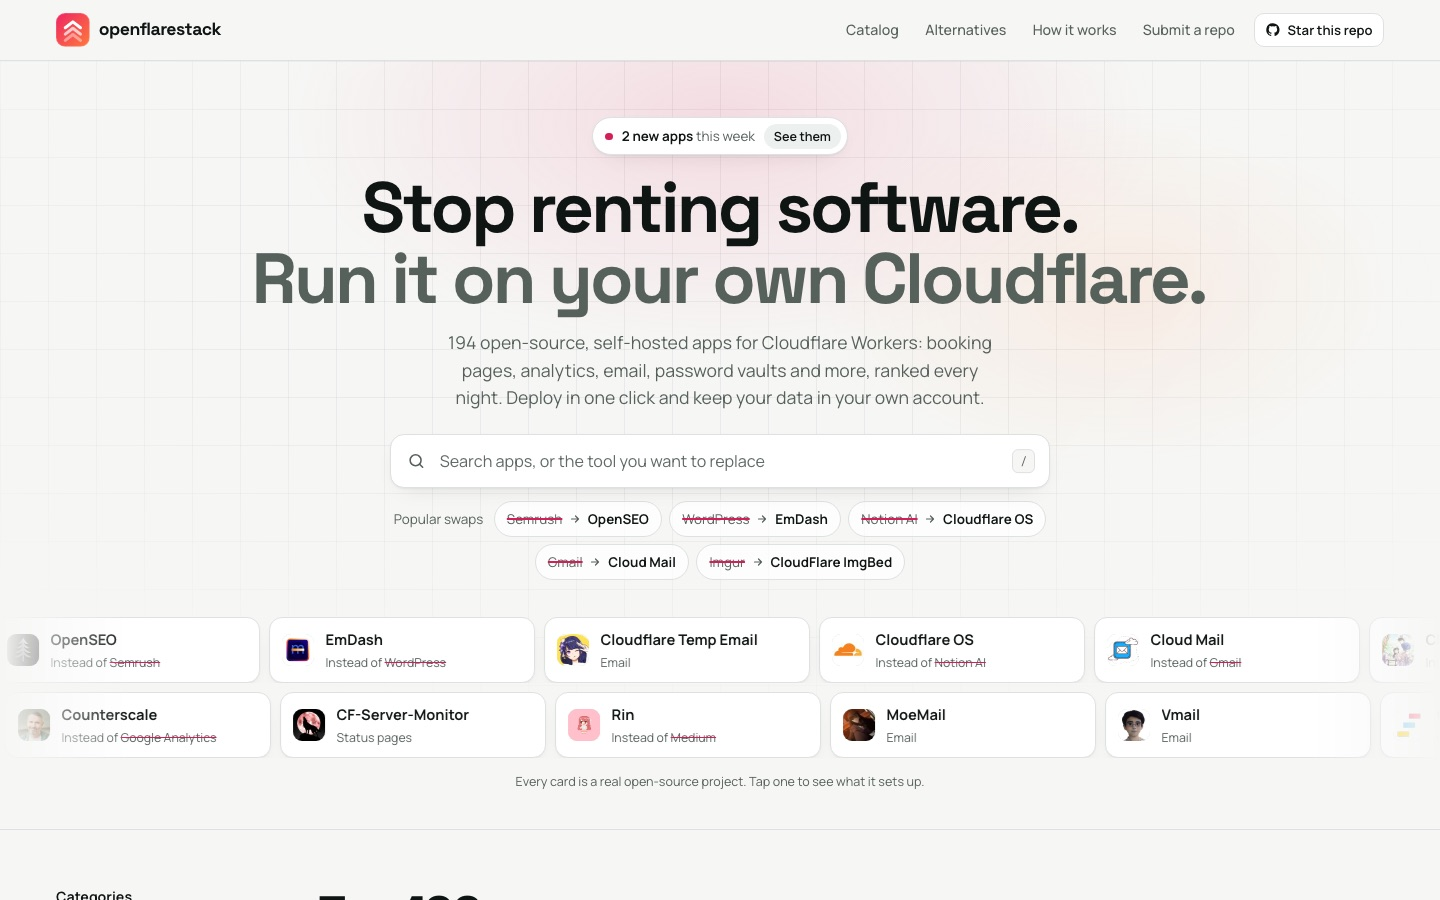
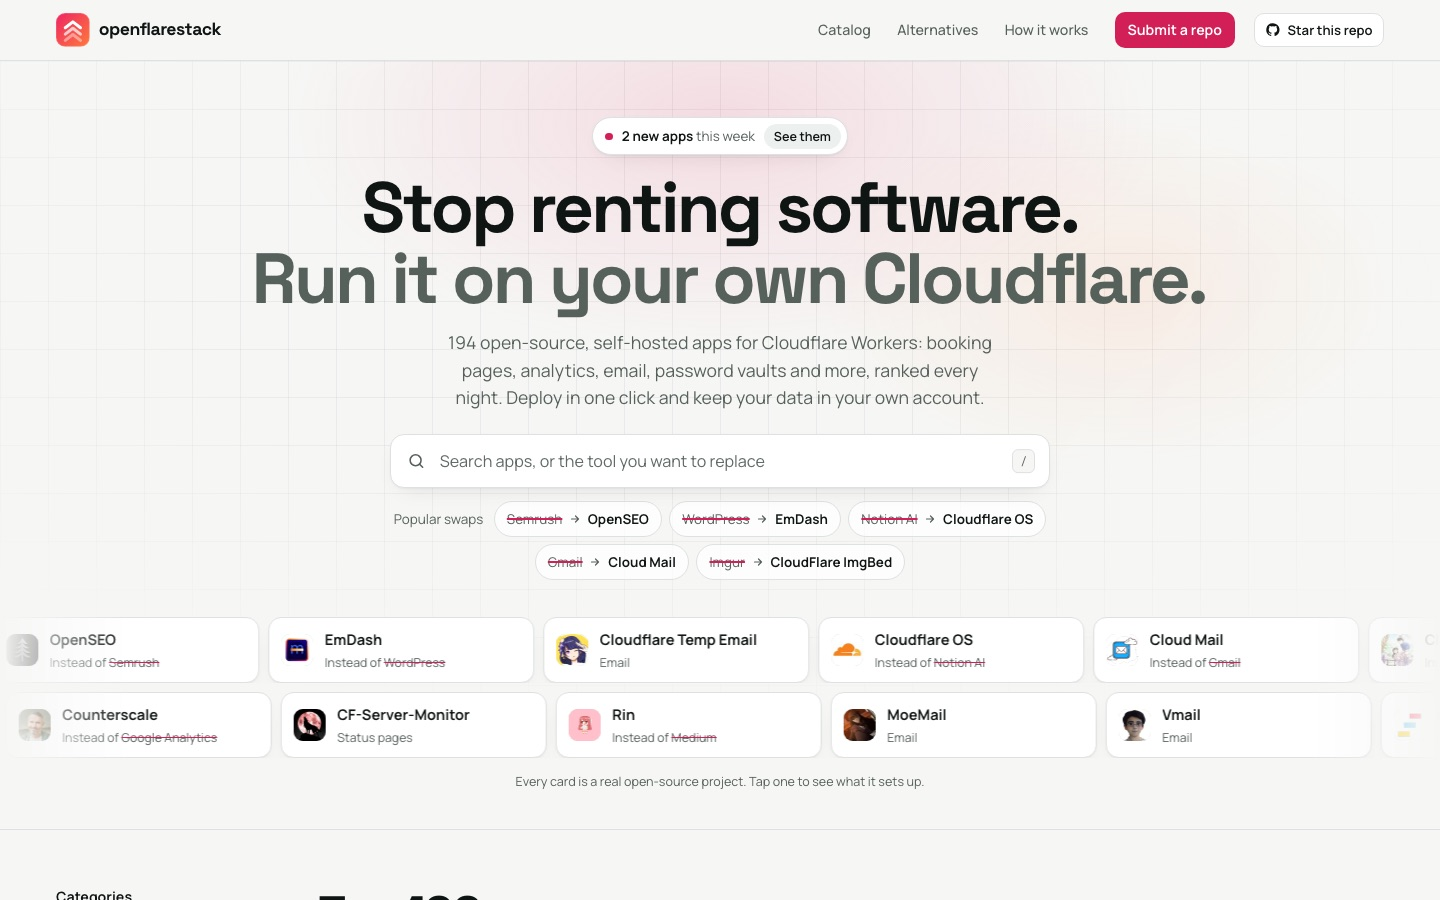
Live search suggestions, footer disclaimer, Submit buttons
- Hero search shows the top matches in a dropdown as you type, with
  keyboard support and a link to all results in the catalog
- Footer: drop the seed-list line, add an install-at-your-own-risk notice
- Submit a repo is a button in the header and footer

diff --git a/site/app.js b/site/app.js
@@ -1,7 +1,7 @@
 // Runs on top of the pre-rendered pages: search, filters, sort, layout, the detail sheet,
 // copy buttons and the "Submit your repo" checker. No framework, no build step.
 
-import { esc, k, row, tiles, appDetail, ICONS } from './lib/render.js';
+import { esc, k, row, tiles, appDetail, avatar, ICONS } from './lib/render.js';
 import { BINDINGS } from './lib/bindings.js';
 import { STEPS, runCheck, parseRepo, apiSource } from './lib/check.js';
 import { TOP_N, submitIssueUrl, deployUrl } from './lib/config.js';
@@ -110,8 +110,52 @@ function initHome() {
   statusEl.addEventListener('click', (e) => { if (e.target.id === 'clearAll') clearAll(); });
   listEl.addEventListener('click', (e) => { if (e.target.id === 'clearEmpty') clearAll(); });
   $('showAll').addEventListener('click', () => { state.all = true; render(); });
-  q.addEventListener('input', () => { state.q = q.value.trim(); render(); });
-  q.addEventListener('keydown', (e) => { if (e.key === 'Enter') { e.preventDefault(); toCatalog(); } });
+  // Live suggestions under the hero search, so typing shows results right away. The full list
+  // below filters at the same time; Enter or "See all" jumps to it.
+  const suggest = $('suggest');
+  let active = -1;
+  const hits = (apps) => apps.filter((a) => {
+    const hay = `${a.name} ${a.replaces || ''} ${a.description} ${a.category} ${a.repo}`.toLowerCase();
+    return state.q.toLowerCase().split(/\s+/).every((w) => hay.includes(w));
+  });
+  function closeSuggest() { suggest.hidden = true; q.setAttribute('aria-expanded', 'false'); active = -1; }
+  async function showSuggest() {
+    if (!state.q) { closeSuggest(); return; }
+    const found = hits((await loadCatalog()).apps);
+    suggest.innerHTML = (found.length
+      ? found.slice(0, 6).map((a, i) => `<a class="sg" id="sg${i}" role="option" href="/apps/${esc(a.slug)}/" data-repo="${esc(a.repo)}">${avatar(a, 'av-sm')}<span><b>${esc(a.name)}</b><small>${a.replaces ? `Instead of ${esc(a.replaces)}` : esc(a.category)}</small></span></a>`).join('')
+      : '<p class="sg-empty">No apps match that yet. Try the name of a tool you pay for.</p>')
+      + (found.length ? `<button type="button" class="sg-all" id="sgAll">See all ${found.length} result${found.length === 1 ? '' : 's'} in the catalog ${ICONS.arrow}</button>` : '');
+    suggest.hidden = false;
+    q.setAttribute('aria-expanded', 'true');
+    active = -1;
+  }
+  function move(d) {
+    const items = [...suggest.querySelectorAll('.sg')];
+    if (!items.length) return;
+    active = (active + d + items.length) % items.length;
+    items.forEach((el, i) => el.classList.toggle('on', i === active));
+    q.setAttribute('aria-activedescendant', items[active].id);
+  }
+  sheetLinks(suggest, '.sg');
+  suggest.addEventListener('click', (e) => {
+    if (e.target.closest('.sg')) closeSuggest();
+    if (e.target.closest('#sgAll')) { closeSuggest(); toCatalog(); }
+  });
+  q.addEventListener('input', () => { state.q = q.value.trim(); render(); showSuggest(); });
+  q.addEventListener('focus', () => { if (state.q) showSuggest(); });
+  q.addEventListener('blur', () => setTimeout(closeSuggest, 150));
+  q.addEventListener('keydown', (e) => {
+    if (e.key === 'ArrowDown') { e.preventDefault(); move(1); }
+    else if (e.key === 'ArrowUp') { e.preventDefault(); move(-1); }
+    else if (e.key === 'Escape') closeSuggest();
+    else if (e.key === 'Enter') {
+      e.preventDefault();
+      const pick = active >= 0 && suggest.querySelectorAll('.sg')[active];
+      closeSuggest();
+      if (pick) openSheet(pick.dataset.repo); else toCatalog();
+    }
+  });
   document.addEventListener('keydown', (e) => {
     if (e.key === '/' && !/input|select|textarea/i.test(document.activeElement.tagName) && !sheet.open) { e.preventDefault(); q.focus(); }
   });
@@ -119,7 +163,7 @@ function initHome() {
     const b = e.target.closest('.swap-chip');
     if (!b) return;
     q.value = state.q = b.dataset.q;
-    setCat('All'); render(); toCatalog();
+    setCat('All'); render(); closeSuggest(); toCatalog();
   });
   $('newPill')?.addEventListener('click', () => { state.onlyNew = true; fNew.setAttribute('aria-pressed', 'true'); render(); toCatalog(); });
   $('sort').addEventListener('change', (e) => { state.sort = e.target.value; render(); });

diff --git a/scripts/build-site.js b/scripts/build-site.js
@@ -89,7 +89,7 @@ ${SPRITE}
       <a href="/#catalog">Catalog</a>
       <a href="/alternatives/">Alternatives</a>
       <a href="/#how">How it works</a>
-      <a href="/#submit">Submit a repo</a>
+      <a class="nav-cta" href="/#submit">Submit a repo</a>
     </nav>
     <a class="gh-star" href="https://github.com/${CATALOG_REPO}" rel="noopener" aria-label="Star OpenFlareStack on GitHub">${ICONS.github}<span>Star this repo</span></a>
   </div>
@@ -101,7 +101,7 @@ ${body}
       <div class="foot-brand">
         <a class="brand" href="/" aria-label="OpenFlareStack home">${MARK}<span class="wm">openflarestack</span></a>
         <p>Open-source apps you run on your own Cloudflare account. Found on GitHub and ranked every night.</p>
-        <a class="foot-cta" href="/#submit">Submit your app ${ICONS.arrow}</a>
+        <a class="btn primary foot-cta" href="/#submit">Submit your app ${ICONS.arrow}</a>
       </div>
       <nav aria-label="Categories"><h2>Categories</h2><ul>${catalog.categories.map((c) => `<li><a href="${catPath(c.name)}">${esc(c.name)}</a></li>`).join('')}</ul></nav>
       <nav aria-label="Alternatives"><h2>Instead of</h2><ul>${ALTS.filter(hasPage).slice(0, 10).map((x) => `<li><a href="${altPath(x)}">${esc(x.name)}</a></li>`).join('')}<li><a href="/alternatives/">All alternatives</a></li></ul></nav>
@@ -115,8 +115,9 @@ ${body}
       </ul></nav>
     </div>
     <div class="foot-bottom">
-      <p>Built by <a href="${AUTHOR.url}" rel="noopener author">${esc(AUTHOR.name)}</a>. Seeded from <a href="https://github.com/theoephraim/awesome-cloudflare-selfhosted" rel="noopener">awesome-cloudflare-selfhosted</a>. Last update ${built}.</p>
-      <p>Not affiliated with Cloudflare, Inc. Cloudflare and Workers are trademarks of Cloudflare, Inc. Every app belongs to its authors and installs from their own repository.</p>
+      <p>Built by <a href="${AUTHOR.url}" rel="noopener author">${esc(AUTHOR.name)}</a>. Last update ${built}.</p>
+      <p>Apps are listed as-is. We don’t review, audit or guarantee any of them, and you install and run them at your own risk. Every app belongs to its authors and installs from their own repository.</p>
+      <p>Not affiliated with Cloudflare, Inc. Cloudflare and Workers are trademarks of Cloudflare, Inc.</p>
     </div>
   </div>
 </footer>
@@ -207,8 +208,9 @@ function home() {
       <div class="search" role="search">
         <svg viewBox="0 0 24 24" fill="none" stroke="currentColor" stroke-width="2" stroke-linecap="round" aria-hidden="true"><circle cx="11" cy="11" r="7"/><path d="m20 20-3.5-3.5"/></svg>
         <label for="q" class="vh">Search apps</label>
-        <input id="q" type="search" autocomplete="off" placeholder="Search apps, or the tool you want to replace">
+        <input id="q" type="search" autocomplete="off" placeholder="Search apps, or the tool you want to replace" role="combobox" aria-expanded="false" aria-controls="suggest" aria-autocomplete="list">
         <span class="kbd" aria-hidden="true">/</span>
+        <div class="suggest" id="suggest" role="listbox" aria-label="Matching apps" hidden></div>
       </div>
       ${swaps.length ? `<div class="swaps" id="swaps"><span>Popular swaps</span>${swaps.map((a) => `<button class="swap-chip" type="button" data-q="${esc(a.replaces)}"><s>${esc(a.replaces)}</s>${ICONS.arrow}<b>${esc(a.name)}</b></button>`).join('')}</div>` : ''}
     </div>

diff --git a/site/styles.css b/site/styles.css
@@ -314,9 +314,6 @@ section{scroll-margin-top:5rem}
 .foot-brand{grid-column:1/-1}
 @media (min-width:900px){.foot-brand{grid-column:auto}}
 .foot-brand p{color:var(--quiet);font-size:.93rem;margin-top:.9rem;max-width:34ch}
-.foot-cta{display:inline-flex;align-items:center;gap:.4rem;margin-top:1rem;font-weight:650;font-size:.92rem;color:var(--flare);text-decoration:none}
-.foot-cta svg{width:.9rem;height:.9rem}
-.foot-cta:hover{color:var(--flare-2)}
 .foot nav h2{font-family:var(--sans);font-size:.78rem;font-weight:700;letter-spacing:.08em;text-transform:uppercase;color:var(--quiet);margin-bottom:.8rem}
 .foot nav ul{list-style:none;margin:0;padding:0;display:grid;gap:.45rem}
 .foot nav a{color:var(--ink);text-decoration:none;font-size:.92rem}
@@ -460,3 +457,24 @@ a.open{color:inherit;text-decoration:none}
 .credit summary{cursor:pointer;font-weight:600;font-size:.9rem}
 .credit pre{margin-top:.6rem;background:var(--hover);border-radius:10px;padding:.9rem;font-family:var(--code);font-size:.72rem;white-space:pre-wrap;max-height:16rem;overflow:auto}
 @media (max-width:720px){.nav+.gh-star{margin-left:auto}}
+
+/* Hero search suggestions */
+.suggest{position:absolute;left:0;right:0;top:calc(100% + .5rem);z-index:15;background:var(--sheet);border:1px solid var(--rule);border-radius:14px;box-shadow:0 16px 40px -16px rgba(14,21,19,.28);padding:.4rem;text-align:left;max-height:min(26rem,60vh);overflow-y:auto}
+.sg{display:flex;align-items:center;gap:.75rem;padding:.55rem .65rem;border-radius:10px;text-decoration:none;color:var(--ink)}
+.sg:hover,.sg.on{background:var(--hover)}
+.sg span{display:grid;min-width:0}
+.sg b{font-weight:650;font-size:.97rem;white-space:nowrap;overflow:hidden;text-overflow:ellipsis}
+.sg small{color:var(--quiet);font-size:.82rem;white-space:nowrap;overflow:hidden;text-overflow:ellipsis}
+.sg-empty{padding:.8rem .7rem;color:var(--quiet);font-size:.92rem}
+.sg-all{display:flex;align-items:center;justify-content:center;gap:.4rem;width:100%;margin-top:.3rem;padding:.65rem;border:0;border-top:1px solid var(--rule);border-radius:0 0 10px 10px;background:none;color:var(--flare);font-weight:650;font-size:.9rem;cursor:pointer}
+.sg-all svg{width:.9rem;height:.9rem}
+.sg-all:hover{background:var(--hover)}
+.hero .search{z-index:5}
+
+/* Submit buttons */
+.nav a.nav-cta{color:var(--flare-ink);background:var(--flare);padding:.45rem .85rem;border-radius:10px;font-weight:650}
+.nav a.nav-cta:hover{background:var(--flare-2);color:var(--flare-ink)}
+.nav{align-items:center}
+.btn.foot-cta{margin-top:1.1rem;padding:.6rem 1rem;font-size:.92rem;color:var(--flare-ink)}
+.btn.foot-cta svg{width:.9rem;height:.9rem}
+.hero{overflow-x:clip;overflow-y:visible}
